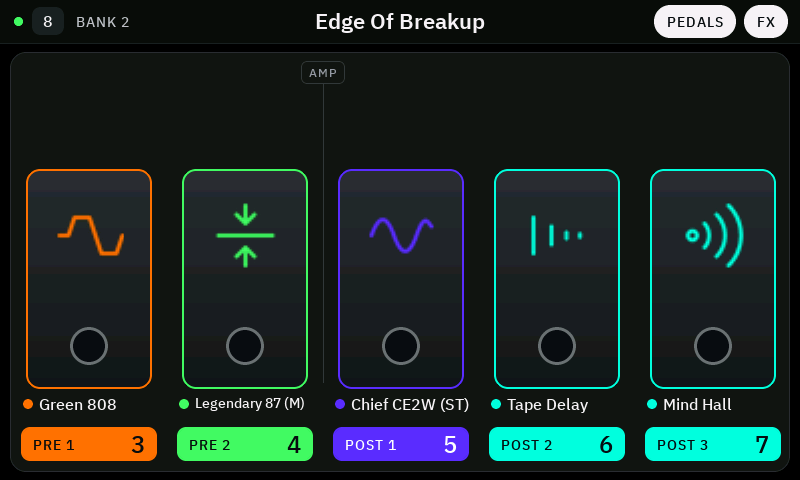
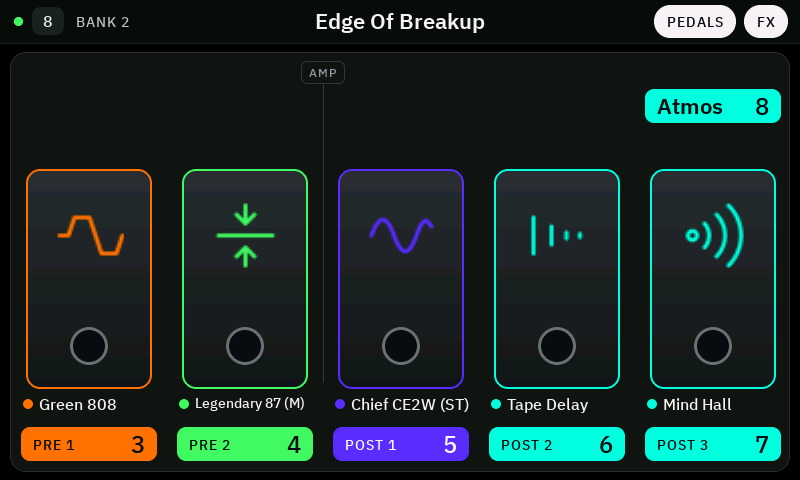
Pedal view: the reverb switch's setting above the reverb's pedal
With two settings on the reverb switch, the one that is on stands above the reverb's pedal in a
field like the pedals' footswitches, with the switch's number; a tap is a press of that switch.

Changed region(s): [[0.7812, 0.1875, 1.0, 0.2812]]

diff --git a/main/ui.c b/main/ui.c
@@ -68,7 +68,8 @@ static lv_obj_t *s_gig_bar, *s_gig_dot, *s_gig_number, *s_gig_bank, *s_gig_name,
 // field of its bar). A pedal's picture comes from the picture file in the flash memory (pedal_assets.h); a model
 // without one - and every model in the published firmware - is drawn: colour, symbol, name.
 static lv_obj_t *s_pedals, *s_pv_slot[NANO_FX_SLOTS], *s_pv_image[NANO_FX_SLOTS], *s_pv_drawn[NANO_FX_SLOTS], *s_pv_icon[NANO_FX_SLOTS],
-                *s_pv_led[NANO_FX_SLOTS], *s_pv_name[NANO_FX_SLOTS], *s_pv_key[NANO_FX_SLOTS], *s_pv_cap[NANO_FX_SLOTS], *s_pv_num[NANO_FX_SLOTS];
+                *s_pv_led[NANO_FX_SLOTS], *s_pv_name[NANO_FX_SLOTS], *s_pv_key[NANO_FX_SLOTS], *s_pv_cap[NANO_FX_SLOTS], *s_pv_num[NANO_FX_SLOTS],
+                *s_pv_rp, *s_pv_rp_name, *s_pv_rp_num;   // above the reverb's pedal: the setting the reverb switch is on
 static bool s_pedal_view;     // chosen (kept by the controller)
 static bool s_pedals_shown;   // on the screen now: chosen, full screen, FX mode
 static lv_obj_t *s_capture_title;
@@ -827,13 +828,54 @@ static void build_pedals(lv_obj_t *parent)
         s_pv_num[slot] = label(s_pv_key[slot], &ui_font_24, TEXT);
         lv_obj_align(s_pv_num[slot], LV_ALIGN_RIGHT_MID, -10, 0);
     }
+    // The reverb switch with two settings: the one that is on, above the reverb's pedal - a field like the pedals'
+    // footswitches (filled while the reverb is on), with the switch's number. A tap is a press of that switch.
+    s_pv_rp = lv_obj_create(s_pedals);
+    lv_obj_remove_style_all(s_pv_rp);
+    lv_obj_set_size(s_pv_rp, PV_SLOT_W - 20, 34);
+    lv_obj_set_style_radius(s_pv_rp, 9, 0);
+    lv_obj_set_style_border_width(s_pv_rp, 2, 0);
+    lv_obj_set_scrollable(s_pv_rp, false);
+    lv_obj_set_clickable(s_pv_rp, true);
+    lv_obj_set_ext_click_area(s_pv_rp, 8);
+    lv_obj_set_style_opa(s_pv_rp, 190, LV_STATE_PRESSED);
+    lv_obj_add_event_cb(s_pv_rp, on_tile, LV_EVENT_SHORT_CLICKED, (void *)(intptr_t)7);
+    lv_obj_add_event_cb(s_pv_rp, on_tile_long, LV_EVENT_LONG_PRESSED, (void *)(intptr_t)7);
+    s_pv_rp_name = label(s_pv_rp, &ui_font_title_22, TEXT);
+    lv_obj_set_size(s_pv_rp_name, PV_SLOT_W - 20 - 44, lv_font_get_line_height(&ui_font_title_22));
+    lv_label_set_long_mode(s_pv_rp_name, LV_LABEL_LONG_DOT);
+    lv_obj_align(s_pv_rp_name, LV_ALIGN_LEFT_MID, 10, 0);
+    s_pv_rp_num = label(s_pv_rp, &ui_font_24, TEXT);
+    lv_obj_align(s_pv_rp_num, LV_ALIGN_RIGHT_MID, -10, 0);
+    lv_obj_set_hidden(s_pv_rp, true);
     lv_obj_set_hidden(s_pedals, true);
 }
 
 // The five slots as they are now (called with every state while the pedals are shown, and when they come up).
-static void show_pedals(const nano_state_t *st)
+static void show_pedals(const nano_state_t *st, const ui_view_t *view)
 {
     char text[8];
+    // The reverb's setting (see s_pv_rp)
+    int rslot = view->mix_slot;
+    bool rp = view->rp_used && rslot >= 0 && rslot < NANO_FX_SLOTS && nano_fx_model(st->fx_known ? st->fx_type[rslot] : 0);
+    set_hidden(s_pv_rp, !rp);
+    if (rp) {
+        const nano_fx_model_t *model = nano_fx_model(st->fx_type[rslot]);
+        bool on = st->fx_on[rslot], neither = view->rp_active > 1;
+        int n = view->rp_active == 1 ? 1 : 0;
+        uint32_t ink = on ? ink_for(model->color) : 0xC8CCD1;
+        lv_obj_set_pos(s_pv_rp, rslot * PV_SLOT_W + 10, 36);
+        set_color_prop(s_pv_rp, LV_STYLE_BG_COLOR, model->color);
+        set_num_prop(s_pv_rp, LV_STYLE_BG_OPA, on && !neither ? LV_OPA_COVER : LV_OPA_TRANSP);
+        set_color_prop(s_pv_rp, LV_STYLE_BORDER_COLOR, on ? model->color : blend(model->color, PANEL_BG, 0.45f));
+        if (neither) ink = on ? model->color : 0xC8CCD1;   // set to neither: outlined, the name of the one the next press brings
+        set_text(s_pv_rp_name, view->rp_names[n][0] ? view->rp_names[n] : n ? "Setting 2" : "Setting 1");
+        set_color_prop(s_pv_rp_name, LV_STYLE_TEXT_COLOR, ink);
+        int p = tile_position(7);
+        snprintf(text, sizeof(text), "%d", p + 1);
+        set_text(s_pv_rp_num, p >= 0 ? text : "");
+        set_color_prop(s_pv_rp_num, LV_STYLE_TEXT_COLOR, ink);
+    }
     for (int slot = 0; slot < NANO_FX_SLOTS; slot++) {
         uint32_t type = st->fx_known ? st->fx_type[slot] : 0;
         const nano_fx_model_t *model = nano_fx_model(type);
@@ -952,7 +994,8 @@ void ui_flash_tile(int i)
 {
     if (i < 0 || i >= TILES) return;
     lvgl_port_lock(0);
-    lv_obj_t *t = s_pedals_shown && i >= 2 && i < 2 + NANO_FX_SLOTS ? s_pv_key[i - 2] : s_tile[i];
+    lv_obj_t *t = s_pedals_shown && i >= 2 && i < 2 + NANO_FX_SLOTS ? s_pv_key[i - 2]
+                  : s_pedals_shown && i == 7 && !lv_obj_is_hidden(s_pv_rp) ? s_pv_rp : s_tile[i];
     lv_obj_set_style_outline_width(t, 4, 0);
     lv_obj_set_style_outline_pad(t, 2, 0);
     lv_obj_set_style_outline_color(t, lv_color_white(), 0);
@@ -3988,7 +4031,7 @@ void ui_show_state(const nano_state_t *st, const ui_view_t *view)
     set_num_prop(s_gig_view, LV_STYLE_BG_OPA, s_pedal_view ? LV_OPA_COVER : LV_OPA_TRANSP);
     set_color_prop(s_gig_view, LV_STYLE_TEXT_COLOR, s_pedal_view ? INK : TEXT);
     bool pedals = s_pedal_view && s_fullscreen && view->fx_mode && !view->looper;
-    if (pedals) show_pedals(st);
+    if (pedals) show_pedals(st, view);
     pedals_show(pedals);
 
     lvgl_port_unlock();

diff --git a/tools/screenshots/shots.c b/tools/screenshots/shots.c
@@ -269,9 +269,18 @@ int main(void)
     ui_show_state(&st, &view);
     shot("39-pedal-view");
     st.fx_on[2] = !st.fx_on[2];
+    view.rp_used = true;   // the reverb switch changes between two settings: the one that is on, above the reverb
+    view.rp_set = 3;
+    view.rp_active = 1;
+    snprintf(view.rp_names[0], sizeof(view.rp_names[0]), "Room");
+    snprintf(view.rp_names[1], sizeof(view.rp_names[1]), "Atmos");
     ui_show_state(&st, &view);
     shot("40-pedal-view-off");
     st.fx_on[2] = !st.fx_on[2];
+    view.rp_used = false;
+    view.rp_set = 0;
+    view.rp_active = 0;
+    view.rp_names[0][0] = view.rp_names[1][0] = 0;
     ui_set_pedal_view(false);
     view.fx_mode = false;
     ui_show_state(&st, &view);
